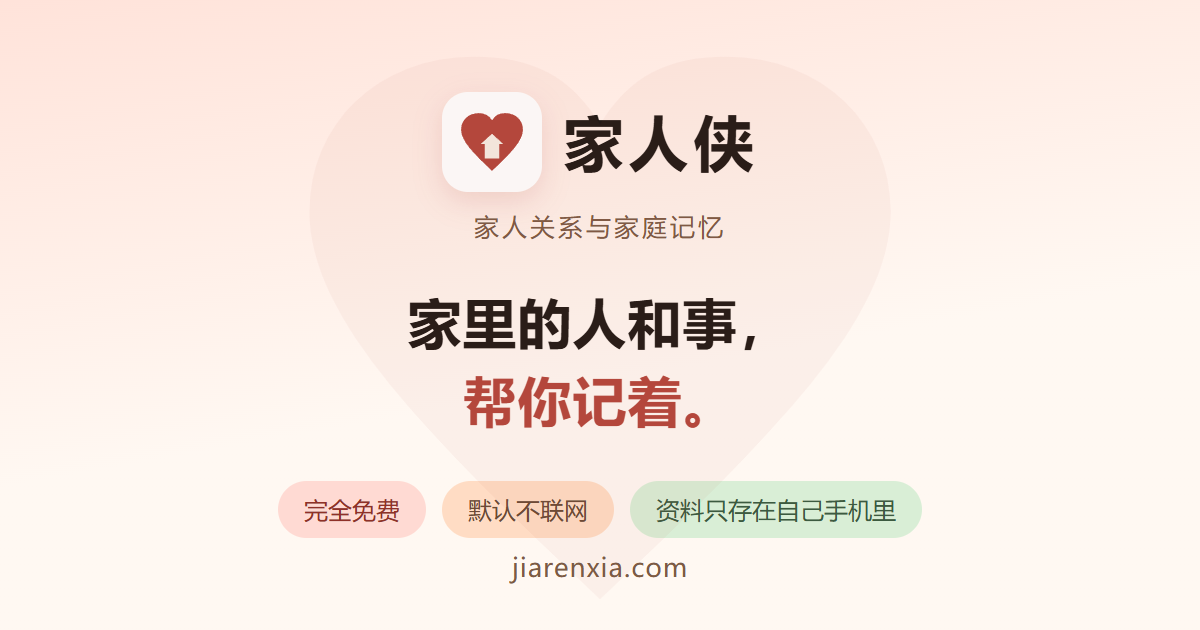
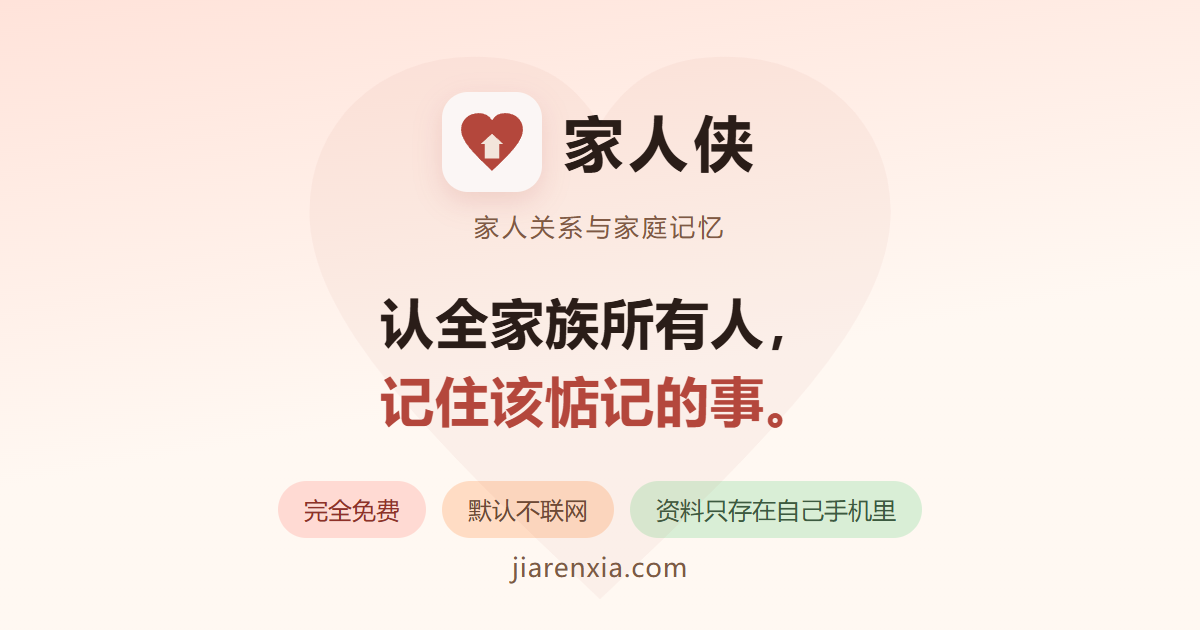
主宣传语改为“认全家族所有人，记住该惦记的事。”：README、官网首屏/SEO/分享卡片与品牌文档同步

Changed region(s): [[0.3083, 0.4524, 0.6475, 0.6937]]

diff --git a/apps/web/src/seo.ts b/apps/web/src/seo.ts
@@ -16,7 +16,7 @@ export const OG_IMAGE = {
   path: "/og-cover.png",
   width: 1200,
   height: 630,
-  alt: "家人侠 — 家里的人和事，帮你记着。",
+  alt: "家人侠 — 认全家族所有人，记住该惦记的事。",
 };
 
 export type PageSeo = {
@@ -32,10 +32,10 @@ export type PageSeo = {
 /** 可被搜索引擎收录的页面，顺序即 sitemap 顺序。 */
 export const PAGES: Record<string, PageSeo> = {
   "/": {
-    title: "家人侠 — 家里的人和事，帮你记着",
+    title: "家人侠 — 认全家族所有人，记住该惦记的事",
     description:
-      "家人侠是一款完全免费的安卓应用：家事提醒、联系提醒、生日与纪念日按时到点提醒；" +
-      "关系图与称谓一看就懂，分享给家人换成他的叫法。" +
+      "家人侠是一款完全免费的安卓应用：录入家人关系生成关系图，称谓一看就懂、分享给家人换成他的叫法；" +
+      "生日、纪念日、家事、联系提醒按时到点。" +
       "所有资料只保存在自己手机里，默认不联网、不上传、不用注册。",
     priority: "1.0",
     changefreq: "weekly",

diff --git a/apps/web/e2e/seo.spec.ts b/apps/web/e2e/seo.spec.ts
@@ -45,7 +45,7 @@ test("首页静态 HTML 含结构化数据与首屏文案", async ({ request }) 
   const html = await (await request.get("/")).text();
   expect(html).toContain('<script type="application/ld+json">');
   expect(html).toContain("SoftwareApplication");
-  expect(html).toContain("帮你记着");
+  expect(html).toContain("认全家族所有人");
 });
 
 test("分享卡片与站点图标齐全", async ({ request }) => {
@@ -91,7 +91,7 @@ test("预渲染页面能正常 hydrate，控制台没有报错", async ({ page }
   page.on("console", (m) => { if (m.type() === "error") errors.push(m.text()); });
   page.on("pageerror", (e) => errors.push(String(e)));
   await page.goto("/");
-  await expect(page.getByRole("heading", { name: /帮你记着/, level: 1 })).toBeVisible();
+  await expect(page.getByRole("heading", { name: /认全家族所有人/, level: 1 })).toBeVisible();
   await page.goto("/help");
   await expect(page.getByRole("heading", { name: "帮助", exact: true })).toBeVisible();
   expect(errors).toEqual([]);

diff --git a/apps/web/src/pages/Home.tsx b/apps/web/src/pages/Home.tsx
@@ -61,11 +61,11 @@ function Hero() {
       <div className="hero-copy">
         <span className="kicker"><Icon name="heart" size={16} />家人侠 · 给家里人留个位置</span>
         <h1>
-          家里的人和事，
-          <span className="accent">帮你记着。</span>
+          认全家族所有人，
+          <span className="accent">记住该惦记的事。</span>
         </h1>
         <p className="hero-lead">
-          <Phrases text="群里说好的事、该给谁打个电话、谁的生日快到了，家人侠都替你记着；家里人是谁、该怎么叫，也都在一张图里。资料只存在你自己的手机里。" />
+          <Phrases text="家里人是谁、该怎么叫，一张图里看明白；群里说好的事、该给谁打个电话、谁的生日快到了，家人侠也都替你记着。资料只存在你自己的手机里。" />
         </p>
         <div className="hero-actions">
           <Link className="btn btn-primary btn-lg" to="/download">

diff --git a/apps/android/app/src/test/java/io/github/xiaohaoz1/jiarenxia/screenshots/OgCoverTest.kt b/apps/android/app/src/test/java/io/github/xiaohaoz1/jiarenxia/screenshots/OgCoverTest.kt
@@ -94,8 +94,8 @@ class OgCoverTest {
                             }
                         }
                         Spacer(Modifier.height(64.dp))
-                        Text("亲戚怎么叫，", fontSize = 58.sp, fontWeight = FontWeight.Bold, color = Color(0xFF4A2B20))
-                        Text("家人侠帮你算。", fontSize = 58.sp, fontWeight = FontWeight.Bold, color = Color(0xFFB4473C))
+                        Text("认全家族所有人，", fontSize = 58.sp, fontWeight = FontWeight.Bold, color = Color(0xFF4A2B20))
+                        Text("记住该惦记的事。", fontSize = 58.sp, fontWeight = FontWeight.Bold, color = Color(0xFFB4473C))
                         Spacer(Modifier.height(56.dp))
                         Row(horizontalArrangement = Arrangement.spacedBy(16.dp)) {
                             Chip("完全免费", Color(0xFFF6E1DC))

diff --git a/apps/web/e2e/public.spec.ts b/apps/web/e2e/public.spec.ts
@@ -7,7 +7,7 @@ import { ROOT, shot } from "./helpers";
 
 test("公共页面与导航", async ({ page }, testInfo) => {
   await page.goto("/");
-  await expect(page.getByRole("heading", { name: /帮你记着/, level: 1 })).toBeVisible();
+  await expect(page.getByRole("heading", { name: /记住该惦记的事/, level: 1 })).toBeVisible();
   await shot(page, testInfo, "home");
 
   for (const [path, heading] of [

diff --git a/apps/web/scripts/og-cover.html b/apps/web/scripts/og-cover.html
@@ -87,7 +87,7 @@
     </div>
     <div class="kicker">家人关系与家庭记忆</div>
 
-    <h1>家里的人和事，<br /><span class="accent">帮你记着。</span></h1>
+    <h1>认全家族所有人，<br /><span class="accent">记住该惦记的事。</span></h1>
 
     <div class="chips">
       <span class="chip">完全免费</span>

diff --git a/docs/web/README.md b/docs/web/README.md
@@ -34,7 +34,7 @@
 
 | 路径 | 页面 | 内容 |
 |---|---|---|
-| `/` | 首页 | ① 首屏：kicker「家人侠 · 给家里人留个位置」、h1「家里的人和事，帮你记着。」、支撑文案、下载与"使用帮助"按钮、版本信息（取自 `src/site.ts`）、全家福相框（AI 示意图）加右下叠放的手机截图与两张浮动卡片，手机宽度下只显示相框；② 日常场景三卡（群里说的事转给家人侠 / 每周给爷爷打个电话 / 爸妈的生日农历的也不忘，均为 HTML/CSS 画的场景，不用插画）；③ 一家人（关系图截图 + 三要点 + 链到 `/help#kinship`）；④ 守护侠（测试版）卡片，链到小侠家族页；⑤ 浅色隐私区「家里的事，留在家里」；⑥ 结尾团圆饭照片（AI 示意图）+ 引导。官网固定浅色主题，页脚注明首页家庭照片为 AI 生成的示意图。不宣传碰一碰 |
+| `/` | 首页 | ① 首屏：kicker「家人侠 · 给家里人留个位置」、h1「认全家族所有人，记住该惦记的事。」、支撑文案、下载与"使用帮助"按钮、版本信息（取自 `src/site.ts`）、全家福相框（AI 示意图）加右下叠放的手机截图与两张浮动卡片，手机宽度下只显示相框；② 日常场景三卡（群里说的事转给家人侠 / 每周给爷爷打个电话 / 爸妈的生日农历的也不忘，均为 HTML/CSS 画的场景，不用插画）；③ 一家人（关系图截图 + 三要点 + 链到 `/help#kinship`）；④ 守护侠（测试版）卡片，链到小侠家族页；⑤ 浅色隐私区「家里的事，留在家里」；⑥ 结尾团圆饭照片（AI 示意图）+ 引导。官网固定浅色主题，页脚注明首页家庭照片为 AI 生成的示意图。不宣传碰一碰 |
 | `/download` | 下载 | 版本、大小、SHA-256 与下载按钮（链接到站点根目录的 `jiarenxia.apk`）；`apkVersion` 为空时只显示“尚未发布”与系统要求（Android 8.0 及以上） |
 | `/extensions` | 小侠家族 | 同作者的其他小应用（当前为「朋友侠」「吃什么」）：每个应用一张卡片，图标 + 名称 + 阶段胶囊（如“测试版”）+ 简介 + 版本/大小/系统要求/SHA-256 + 下载按钮（链接到站点根目录对应安装包）；应用清单在 `src/site.ts` 的 `EXTENSIONS`，version 为空时显示“安装包还在准备中” |
 | `/help` | 帮助 | 称谓推导演示卡（`#kinship` 锚点，例选"妻子的父亲"得"岳父"）；给家里老人看的图文教程：每节一张 App 截图（与首页同源的合成数据截图，配手机外框）+「跟着点」步骤——认识家庭页、看资料打电话、家事提醒、关系图；附字太小/换手机说明、常见问题、联系邮箱 |

diff --git a/docs/VISION.md b/docs/VISION.md
@@ -1041,7 +1041,7 @@
 
 ## 13. 产品宣传语
 
-宣传语已按用途分三层定稿（2026-10-18），以 `BRAND.md` 第 3 节为准：主宣传语“亲戚怎么叫，家人侠帮你算。”，春节档活动语“过年见亲戚，不再叫错人。”，品牌副句即本节的：
+宣传语按用途分三层，以 `BRAND.md` 第 3 节为准：主宣传语“认全家族所有人，记住该惦记的事。”（2026-10-24 定稿），春节档活动语“过年见亲戚，不再叫错人。”，品牌副句即本节的：
 
 > 请在手机空间中，给家人留一个位置。
 

diff --git a/docs/BRAND.md b/docs/BRAND.md
@@ -49,11 +49,11 @@
 
 ## 3. 产品宣传语
 
-宣传语按用途分层使用（2026-10-22 随官网改版更新；产品定位仍在讨论，变更时同步此处）。
+宣传语按用途分层使用（2026-10-24 定位修改定稿）。
 
 ### 3.1 主宣传语
 
-> 家里的人和事，帮你记着。
+> 认全家族所有人，记住该惦记的事。
 
 用于：官网首屏标题、GitHub 简介、视频结尾、分享卡片（含 og-cover）。
 

diff --git a/README.md b/README.md
@@ -2,7 +2,7 @@
 
 源代码以 GPL-3.0 协议开源；官网：https://jiarenxia.com
 
-> 家里的人和事，帮你记着。
+> 认全家族所有人，记住该惦记的事。
 
 家人侠是一款 Android 应用：录入家人关系，自动推导称谓；分享给家人，换成他的叫法。生日、纪念日和该打的电话到点提醒，家里的事记在一处。所有资料只保存在你自己的手机里。
 
